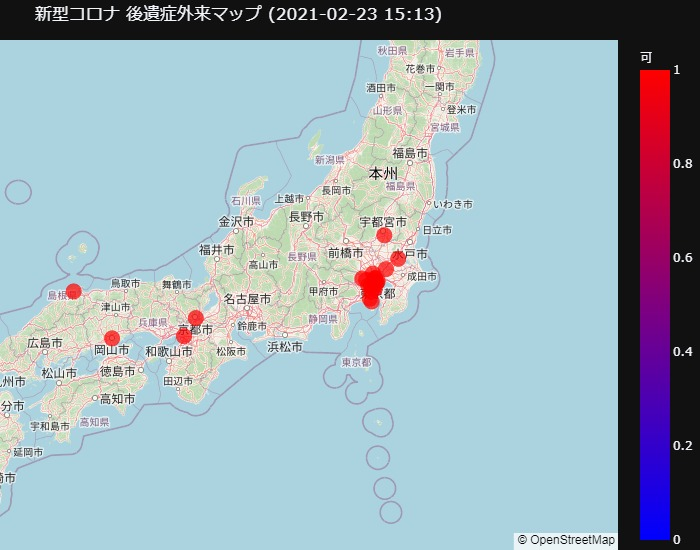
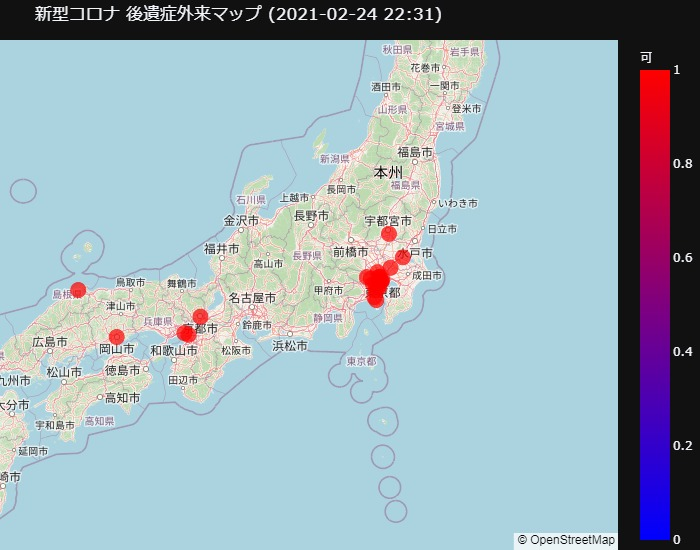
Updated with latest data.

Changed region(s): [[0.0, 0.0618, 0.72, 0.9582], [0.51, 0.0, 0.63, 0.0309], [0.0, 0.3091, 0.06, 0.3709]]

diff --git a/docs/_includes/longcovid-map.html b/docs/_includes/longcovid-map.html
@@ -1,1 +1,1 @@
-<div>                            <div id="998d33b6-41f8-476d-84e4-7009b12d7697" class="plotly-graph-div" style="height:550px; width:100%;"></div>            <script type="text/javascript">                                    window.PLOTLYENV=window.PLOTLYENV || {};                                    if (document.getElementById("998d33b6-41f8-476d-84e4-7009b12d7697")) {                    Plotly.newPlot(                        "998d33b6-41f8-476d-84e4-7009b12d7697",                        [{"customdata": [["-", "-", "2\u9031\u9593\u4ee5\u4e0a\u7d4c\u904e"], ["?", "?", "?"], ["\u53ef", "-", "\u521d\u8a3a\u3067\u3082\u53ef"], ["?", "?", "?"], ["?", "?", "?"], ["-", "\u4e00\u65b9", "16\u6b73\u4ee5\u4e0a\u3001\u57fa\u672c\u306f\u6f22\u65b9"], ["-", "-", "2\u301c3\u30ab\u6708\u7d4c\u904e\u3001\u8af8\u75c7\u72b6\u6709"], ["\u53ef", "\u5fc5\u8981", "\u521d\u8a3a\u3067\u3082\u53ef"], ["?", "?", "\u57fa\u672c\u306f\u6f22\u65b9\u3001\u8981\u554f\u5408\u305b"], ["?", "?", "\u57fa\u672c\u306f\u6f22\u65b9\u3001\u8981\u554f\u5408\u305b"], ["?", "?", "\u57fa\u672c\u306f\u6f22\u65b9\u3001\u8981\u554f\u5408\u305b"], ["\u53ef", "-", "\u57fa\u672c\u306f\u6f22\u65b9\u3001\u81ea\u7531\u8a3a\u7642"], ["\u53ef", "-", "-"], ["-", "-", "\u55c5\u899a\u5473\u899a\u969c\u5bb3\u5916\u6765"], ["-", "\u5fc5\u8981", "2\u30ab\u6708\u4ee5\u4e0a\u7d4c\u904e"], ["-", "-", "\u6765\u9662\u304c\u57fa\u672c"], ["\u53ef", "-", "-"], ["-", "-", "\u9694\u96e2\u671f\u9593\u7d42\u4e86"], ["?", "?", "\u7642\u990a\u7d42\u4e86\u5f8c"], ["?", "?", "\u767a\u75c73\u9031\u9593\u5f8c"], ["-", "-", "\u9000\u9662/\u7642\u990a\u5f8c2\u304b\u6708"], ["-", "\u5fc5\u8981", "3\u30ab\u6708\u4ee5\u4e0a\u7d4c\u904e"], ["?", "?", "-"], ["-", "\u5fc5\u8981", "1\u30ab\u6708\u4ee5\u4e0a\u7d4c\u904e"], ["\u53ef", "-", "\u5bfe\u9762\u8a3a\u7642\u306e\u53ef\u80fd\u6027\u6709"], ["-", "-", "-"], ["-", "-", "1\u30ab\u6708\u4ee5\u4e0a\u7d4c\u904e"]], "hovertemplate": "<b>%{hovertext}</b><br><br>\u53ef=%{marker.color}<br>\u7def\u5ea6=%{lat}<br>\u7d4c\u5ea6=%{lon}<br>\u30aa\u30f3\u30e9\u30a4\u30f3=%{customdata[0]}<br>\u7d39\u4ecb\u72b6=%{customdata[1]}<br>\u6761\u4ef6=%{customdata[2]}<extra></extra>", "hovertext": ["\u30a4\u30f3\u30bf\u30fc\u30d1\u30fc\u30af\u5009\u6301\u547c\u5438\u5668\u5185\u79d1", "\u3064\u3061\u3046\u3089\u6771\u53e3\u30af\u30ea\u30cb\u30c3\u30af", "\u30d2\u30e9\u30cf\u30bf\u30af\u30ea\u30cb\u30c3\u30af", "\u9663\u5185\u8033\u9f3b\u54bd\u5589\u79d1\u30af\u30ea\u30cb\u30c3\u30af", "\u65b0\u4e2d\u91ce\u8033\u9f3b\u54bd\u5589\u79d1\u30af\u30ea\u30cb\u30c3\u30af", "\u5bfa\u7530\u30af\u30ea\u30cb\u30c3\u30af", "\u3082\u3061\u3065\u304d\u8033\u9f3b\u54bd\u5589\u79d1", "\u5317\u91cc\u5927\u5b66\u6771\u6d0b\u533b\u5b66\u7dcf\u5408\u7814\u7a76\u6240", "\u5c0f\u91d1\u4e95\u3064\u308b\u304b\u3081\u30af\u30ea\u30cb\u30c3\u30af", "\u307f\u306e\u3084\u307e\u30af\u30ea\u30cb\u30c3\u30af", "\u307f\u306e\u3084\u307e\u30af\u30ea\u30cb\u30c3\u30af\u7acb\u5ddd", "\u6771\u6587\u4e2d\u91ab\u30af\u30ea\u30cb\u30c3\u30af\u30fb\u65b0\u6a4b", "\u516c\u5e73\u75c5\u9662", "\u30af\u30ea\u30cb\u30c3\u30af\u67cf\u306e\u8449", "\u8056\u30de\u30ea\u30a2\u30f3\u30ca\u533b\u79d1\u5927\u5b66\u75c5\u9662", "\u6a2a\u6d5c\u304b\u3093\u3060\u3044\u3058\u30d5\u30a1\u30df\u30ea\u30fc\u30af\u30ea\u30cb\u30c3\u30af", "\u68b6\u304c\u8c37\u99c5\u524d\u30af\u30ea\u30cb\u30c3\u30af", "\u65b0\u5ddd\u5d0e\u3080\u3089\u305b\u5185\u79d1\u5faa\u74b0\u5668\u5185\u79d1", "\u6a2a\u6d5c\u307f\u306a\u3068\u547c\u5438\u5668\u5185\u79d1", "\u6e58\u5357\u75c5\u9662", "\u7b2c\u4e8c\u5ddd\u5d0e\u5e78\u30af\u30ea\u30cb\u30c3\u30af", "\u30ca\u30ab\u30c8\u30df\u30d5\u30a1\u30c6\u30a3\u30fc\u30b0\u30b1\u30a2\u30af\u30ea\u30cb\u30c3\u30af", "\u5fa1\u6240\u5357\u306f\u3089\u3057\u307e\u30af\u30ea\u30cb\u30c3\u30af", "\u5ca1\u5c71\u5927\u5b66\u75c5\u9662", "\u798f\u7530\u5185\u79d1\u30af\u30ea\u30cb\u30c3\u30af", "\u5929\u795e\u3051\u3084\u304d\u30af\u30ea\u30cb\u30c3\u30af", "\u307f\u3089\u3044\u30af\u30ea\u30cb\u30c3\u30af"], "lat": [36.49421483, 36.07817712, 35.66099144, 35.67554272, 35.69746127, 35.72952117, 35.73184532, 35.64615518, 35.70092207, 35.65562198, 35.72698343, 35.66930295, 35.81312769, 35.89270812, 35.60075469, 35.48523182, 35.5937929, 35.55188904, 35.36818996, 35.31605077, 35.53647462, 34.690363399999995, 35.01644912, 34.65090647, 35.49501807, 33.58607487, 33.59038441], "legendgroup": "", "lon": [139.9027937, 140.207013, 139.70208080000003, 139.6681197, 139.6692997, 139.6931743, 139.7026409, 139.72627219999998, 139.5058372, 139.73607180000002, 139.4179435, 139.7537904, 139.6527044, 139.9377533, 139.5488861, 139.61037869999998, 139.6063036, 139.6629341, 139.58114630000003, 139.6242106, 139.689216, 135.49824080000002, 135.76120600000002, 133.9206308, 133.0761817, 130.3950466, 130.423525], "marker": {"color": [1, 1, 1, 1, 1, 1, 1, 1, 1, 1, 1, 1, 1, 1, 1, 1, 1, 1, 1, 1, 1, 1, 1, 1, 1, 0, 1], "coloraxis": "coloraxis", "size": [1, 1, 1, 1, 1, 1, 1, 1, 1, 1, 1, 1, 1, 1, 1, 1, 1, 1, 1, 1, 1, 1, 1, 1, 1, 0, 1], "sizemode": "area", "sizeref": 0.006944444444444444}, "mode": "markers", "name": "", "showlegend": false, "subplot": "mapbox", "type": "scattermapbox"}],                        {"coloraxis": {"colorbar": {"title": {"text": "\u53ef"}}, "colorscale": [[0.0, "rgb(0,0,255)"], [1.0, "rgb(255,0,0)"]]}, "height": 550, "legend": {"itemsizing": "constant", "tracegroupgap": 0}, "mapbox": {"center": {"lat": 35.43163538629629, "lon": 138.2471630074074}, "domain": {"x": [0.0, 1.0], "y": [0.0, 1.0]}, "style": "open-street-map", "zoom": 5}, "margin": {"b": 0, "l": 0, "r": 0, "t": 40}, "template": {"data": {"bar": [{"error_x": {"color": "#f2f5fa"}, "error_y": {"color": "#f2f5fa"}, "marker": {"line": {"color": "rgb(17,17,17)", "width": 0.5}}, "type": "bar"}], "barpolar": [{"marker": {"line": {"color": "rgb(17,17,17)", "width": 0.5}}, "type": "barpolar"}], "carpet": [{"aaxis": {"endlinecolor": "#A2B1C6", "gridcolor": "#506784", "linecolor": "#506784", "minorgridcolor": "#506784", "startlinecolor": "#A2B1C6"}, "baxis": {"endlinecolor": "#A2B1C6", "gridcolor": "#506784", "linecolor": "#506784", "minorgridcolor": "#506784", "startlinecolor": "#A2B1C6"}, "type": "carpet"}], "choropleth": [{"colorbar": {"outlinewidth": 0, "ticks": ""}, "type": "choropleth"}], "contour": [{"colorbar": {"outlinewidth": 0, "ticks": ""}, "colorscale": [[0.0, "#0d0887"], [0.1111111111111111, "#46039f"], [0.2222222222222222, "#7201a8"], [0.3333333333333333, "#9c179e"], [0.4444444444444444, "#bd3786"], [0.5555555555555556, "#d8576b"], [0.6666666666666666, "#ed7953"], [0.7777777777777778, "#fb9f3a"], [0.8888888888888888, "#fdca26"], [1.0, "#f0f921"]], "type": "contour"}], "contourcarpet": [{"colorbar": {"outlinewidth": 0, "ticks": ""}, "type": "contourcarpet"}], "heatmap": [{"colorbar": {"outlinewidth": 0, "ticks": ""}, "colorscale": [[0.0, "#0d0887"], [0.1111111111111111, "#46039f"], [0.2222222222222222, "#7201a8"], [0.3333333333333333, "#9c179e"], [0.4444444444444444, "#bd3786"], [0.5555555555555556, "#d8576b"], [0.6666666666666666, "#ed7953"], [0.7777777777777778, "#fb9f3a"], [0.8888888888888888, "#fdca26"], [1.0, "#f0f921"]], "type": "heatmap"}], "heatmapgl": [{"colorbar": {"outlinewidth": 0, "ticks": ""}, "colorscale": [[0.0, "#0d0887"], [0.1111111111111111, "#46039f"], [0.2222222222222222, "#7201a8"], [0.3333333333333333, "#9c179e"], [0.4444444444444444, "#bd3786"], [0.5555555555555556, "#d8576b"], [0.6666666666666666, "#ed7953"], [0.7777777777777778, "#fb9f3a"], [0.8888888888888888, "#fdca26"], [1.0, "#f0f921"]], "type": "heatmapgl"}], "histogram": [{"marker": {"colorbar": {"outlinewidth": 0, "ticks": ""}}, "type": "histogram"}], "histogram2d": [{"colorbar": {"outlinewidth": 0, "ticks": ""}, "colorscale": [[0.0, "#0d0887"], [0.1111111111111111, "#46039f"], [0.2222222222222222, "#7201a8"], [0.3333333333333333, "#9c179e"], [0.4444444444444444, "#bd3786"], [0.5555555555555556, "#d8576b"], [0.6666666666666666, "#ed7953"], [0.7777777777777778, "#fb9f3a"], [0.8888888888888888, "#fdca26"], [1.0, "#f0f921"]], "type": "histogram2d"}], "histogram2dcontour": [{"colorbar": {"outlinewidth": 0, "ticks": ""}, "colorscale": [[0.0, "#0d0887"], [0.1111111111111111, "#46039f"], [0.2222222222222222, "#7201a8"], [0.3333333333333333, "#9c179e"], [0.4444444444444444, "#bd3786"], [0.5555555555555556, "#d8576b"], [0.6666666666666666, "#ed7953"], [0.7777777777777778, "#fb9f3a"], [0.8888888888888888, "#fdca26"], [1.0, "#f0f921"]], "type": "histogram2dcontour"}], "mesh3d": [{"colorbar": {"outlinewidth": 0, "ticks": ""}, "type": "mesh3d"}], "parcoords": [{"line": {"colorbar": {"outlinewidth": 0, "ticks": ""}}, "type": "parcoords"}], "pie": [{"automargin": true, "type": "pie"}], "scatter": [{"marker": {"line": {"color": "#283442"}}, "type": "scatter"}], "scatter3d": [{"line": {"colorbar": {"outlinewidth": 0, "ticks": ""}}, "marker": {"colorbar": {"outlinewidth": 0, "ticks": ""}}, "type": "scatter3d"}], "scattercarpet": [{"marker": {"colorbar": {"outlinewidth": 0, "ticks": ""}}, "type": "scattercarpet"}], "scattergeo": [{"marker": {"colorbar": {"outlinewidth": 0, "ticks": ""}}, "type": "scattergeo"}], "scattergl": [{"marker": {"line": {"color": "#283442"}}, "type": "scattergl"}], "scattermapbox": [{"marker": {"colorbar": {"outlinewidth": 0, "ticks": ""}}, "type": "scattermapbox"}], "scatterpolar": [{"marker": {"colorbar": {"outlinewidth": 0, "ticks": ""}}, "type": "scatterpolar"}], "scatterpolargl": [{"marker": {"colorbar": {"outlinewidth": 0, "ticks": ""}}, "type": "scatterpolargl"}], "scatterternary": [{"marker": {"colorbar": {"outlinewidth": 0, "ticks": ""}}, "type": "scatterternary"}], "surface": [{"colorbar": {"outlinewidth": 0, "ticks": ""}, "colorscale": [[0.0, "#0d0887"], [0.1111111111111111, "#46039f"], [0.2222222222222222, "#7201a8"], [0.3333333333333333, "#9c179e"], [0.4444444444444444, "#bd3786"], [0.5555555555555556, "#d8576b"], [0.6666666666666666, "#ed7953"], [0.7777777777777778, "#fb9f3a"], [0.8888888888888888, "#fdca26"], [1.0, "#f0f921"]], "type": "surface"}], "table": [{"cells": {"fill": {"color": "#506784"}, "line": {"color": "rgb(17,17,17)"}}, "header": {"fill": {"color": "#2a3f5f"}, "line": {"color": "rgb(17,17,17)"}}, "type": "table"}]}, "layout": {"annotationdefaults": {"arrowcolor": "#f2f5fa", "arrowhead": 0, "arrowwidth": 1}, "autotypenumbers": "strict", "coloraxis": {"colorbar": {"outlinewidth": 0, "ticks": ""}}, "colorscale": {"diverging": [[0, "#8e0152"], [0.1, "#c51b7d"], [0.2, "#de77ae"], [0.3, "#f1b6da"], [0.4, "#fde0ef"], [0.5, "#f7f7f7"], [0.6, "#e6f5d0"], [0.7, "#b8e186"], [0.8, "#7fbc41"], [0.9, "#4d9221"], [1, "#276419"]], "sequential": [[0.0, "#0d0887"], [0.1111111111111111, "#46039f"], [0.2222222222222222, "#7201a8"], [0.3333333333333333, "#9c179e"], [0.4444444444444444, "#bd3786"], [0.5555555555555556, "#d8576b"], [0.6666666666666666, "#ed7953"], [0.7777777777777778, "#fb9f3a"], [0.8888888888888888, "#fdca26"], [1.0, "#f0f921"]], "sequentialminus": [[0.0, "#0d0887"], [0.1111111111111111, "#46039f"], [0.2222222222222222, "#7201a8"], [0.3333333333333333, "#9c179e"], [0.4444444444444444, "#bd3786"], [0.5555555555555556, "#d8576b"], [0.6666666666666666, "#ed7953"], [0.7777777777777778, "#fb9f3a"], [0.8888888888888888, "#fdca26"], [1.0, "#f0f921"]]}, "colorway": ["#636efa", "#EF553B", "#00cc96", "#ab63fa", "#FFA15A", "#19d3f3", "#FF6692", "#B6E880", "#FF97FF", "#FECB52"], "font": {"color": "#f2f5fa"}, "geo": {"bgcolor": "rgb(17,17,17)", "lakecolor": "rgb(17,17,17)", "landcolor": "rgb(17,17,17)", "showlakes": true, "showland": true, "subunitcolor": "#506784"}, "hoverlabel": {"align": "left"}, "hovermode": "closest", "mapbox": {"style": "dark"}, "paper_bgcolor": "rgb(17,17,17)", "plot_bgcolor": "rgb(17,17,17)", "polar": {"angularaxis": {"gridcolor": "#506784", "linecolor": "#506784", "ticks": ""}, "bgcolor": "rgb(17,17,17)", "radialaxis": {"gridcolor": "#506784", "linecolor": "#506784", "ticks": ""}}, "scene": {"xaxis": {"backgroundcolor": "rgb(17,17,17)", "gridcolor": "#506784", "gridwidth": 2, "linecolor": "#506784", "showbackground": true, "ticks": "", "zerolinecolor": "#C8D4E3"}, "yaxis": {"backgroundcolor": "rgb(17,17,17)", "gridcolor": "#506784", "gridwidth": 2, "linecolor": "#506784", "showbackground": true, "ticks": "", "zerolinecolor": "#C8D4E3"}, "zaxis": {"backgroundcolor": "rgb(17,17,17)", "gridcolor": "#506784", "gridwidth": 2, "linecolor": "#506784", "showbackground": true, "ticks": "", "zerolinecolor": "#C8D4E3"}}, "shapedefaults": {"line": {"color": "#f2f5fa"}}, "sliderdefaults": {"bgcolor": "#C8D4E3", "bordercolor": "rgb(17,17,17)", "borderwidth": 1, "tickwidth": 0}, "ternary": {"aaxis": {"gridcolor": "#506784", "linecolor": "#506784", "ticks": ""}, "baxis": {"gridcolor": "#506784", "linecolor": "#506784", "ticks": ""}, "bgcolor": "rgb(17,17,17)", "caxis": {"gridcolor": "#506784", "linecolor": "#506784", "ticks": ""}}, "title": {"x": 0.05}, "updatemenudefaults": {"bgcolor": "#506784", "borderwidth": 0}, "xaxis": {"automargin": true, "gridcolor": "#283442", "linecolor": "#506784", "ticks": "", "title": {"standoff": 15}, "zerolinecolor": "#283442", "zerolinewidth": 2}, "yaxis": {"automargin": true, "gridcolor": "#283442", "linecolor": "#506784", "ticks": "", "title": {"standoff": 15}, "zerolinecolor": "#283442", "zerolinewidth": 2}}}, "title": {"text": "\u65b0\u578b\u30b3\u30ed\u30ca \u5f8c\u907a\u75c7\u5916\u6765\u30de\u30c3\u30d7 (2021-02-23 15:13)"}},                        {"responsive": true}                    )                };                            </script>        </div>
+<div>                            <div id="27be0d39-5cd0-4423-abad-bdfcbefb373c" class="plotly-graph-div" style="height:550px; width:100%;"></div>            <script type="text/javascript">                                    window.PLOTLYENV=window.PLOTLYENV || {};                                    if (document.getElementById("27be0d39-5cd0-4423-abad-bdfcbefb373c")) {                    Plotly.newPlot(                        "27be0d39-5cd0-4423-abad-bdfcbefb373c",                        [{"customdata": [["-", "-", "2\u9031\u9593\u4ee5\u4e0a\u7d4c\u904e"], ["?", "?", "?"], ["\u53ef", "-", "\u521d\u8a3a\u3067\u3082\u53ef"], ["?", "?", "?"], ["?", "?", "?"], ["-", "\u4e00\u65b9", "16\u6b73\u4ee5\u4e0a\u3001\u57fa\u672c\u306f\u6f22\u65b9"], ["-", "-", "2\u301c3\u30ab\u6708\u7d4c\u904e\u3001\u8af8\u75c7\u72b6\u6709"], ["\u53ef", "\u5fc5\u8981", "\u521d\u8a3a\u3067\u3082\u53ef"], ["?", "?", "\u57fa\u672c\u306f\u6f22\u65b9\u3001\u8981\u554f\u5408\u305b"], ["?", "?", "\u57fa\u672c\u306f\u6f22\u65b9\u3001\u8981\u554f\u5408\u305b"], ["?", "?", "\u57fa\u672c\u306f\u6f22\u65b9\u3001\u8981\u554f\u5408\u305b"], ["\u53ef", "-", "\u57fa\u672c\u306f\u6f22\u65b9\u3001\u81ea\u7531\u8a3a\u7642"], ["\u53ef", "-", "-"], ["-", "-", "\u55c5\u899a\u5473\u899a\u969c\u5bb3\u5916\u6765"], ["-", "\u5fc5\u8981", "2\u30ab\u6708\u4ee5\u4e0a\u7d4c\u904e"], ["-", "-", "\u6765\u9662\u304c\u57fa\u672c"], ["\u53ef", "-", "-"], ["-", "-", "\u9694\u96e2\u671f\u9593\u7d42\u4e86"], ["?", "?", "\u7642\u990a\u7d42\u4e86\u5f8c"], ["?", "?", "\u767a\u75c73\u9031\u9593\u5f8c"], ["-", "-", "\u9000\u9662/\u7642\u990a\u5f8c2\u304b\u6708"], ["-", "\u5fc5\u8981", "3\u30ab\u6708\u4ee5\u4e0a\u7d4c\u904e"], ["?", "?", "-"], ["-", "?", "-"], ["-", "\u5fc5\u8981", "1\u30ab\u6708\u4ee5\u4e0a\u7d4c\u904e"], ["\u53ef", "-", "\u5bfe\u9762\u8a3a\u7642\u306e\u53ef\u80fd\u6027\u6709"], ["-", "-", "-"], ["-", "-", "1\u30ab\u6708\u4ee5\u4e0a\u7d4c\u904e"]], "hovertemplate": "<b>%{hovertext}</b><br><br>\u53ef=%{marker.color}<br>\u7def\u5ea6=%{lat}<br>\u7d4c\u5ea6=%{lon}<br>\u30aa\u30f3\u30e9\u30a4\u30f3=%{customdata[0]}<br>\u7d39\u4ecb\u72b6=%{customdata[1]}<br>\u6761\u4ef6=%{customdata[2]}<extra></extra>", "hovertext": ["\u30a4\u30f3\u30bf\u30fc\u30d1\u30fc\u30af\u5009\u6301\u547c\u5438\u5668\u5185\u79d1", "\u3064\u3061\u3046\u3089\u6771\u53e3\u30af\u30ea\u30cb\u30c3\u30af", "\u30d2\u30e9\u30cf\u30bf\u30af\u30ea\u30cb\u30c3\u30af", "\u9663\u5185\u8033\u9f3b\u54bd\u5589\u79d1\u30af\u30ea\u30cb\u30c3\u30af", "\u65b0\u4e2d\u91ce\u8033\u9f3b\u54bd\u5589\u79d1\u30af\u30ea\u30cb\u30c3\u30af", "\u5bfa\u7530\u30af\u30ea\u30cb\u30c3\u30af", "\u3082\u3061\u3065\u304d\u8033\u9f3b\u54bd\u5589\u79d1", "\u5317\u91cc\u5927\u5b66\u6771\u6d0b\u533b\u5b66\u7dcf\u5408\u7814\u7a76\u6240", "\u5c0f\u91d1\u4e95\u3064\u308b\u304b\u3081\u30af\u30ea\u30cb\u30c3\u30af", "\u307f\u306e\u3084\u307e\u30af\u30ea\u30cb\u30c3\u30af", "\u307f\u306e\u3084\u307e\u30af\u30ea\u30cb\u30c3\u30af\u7acb\u5ddd", "\u6771\u6587\u4e2d\u91ab\u30af\u30ea\u30cb\u30c3\u30af\u30fb\u65b0\u6a4b", "\u516c\u5e73\u75c5\u9662", "\u30af\u30ea\u30cb\u30c3\u30af\u67cf\u306e\u8449", "\u8056\u30de\u30ea\u30a2\u30f3\u30ca\u533b\u79d1\u5927\u5b66\u75c5\u9662", "\u6a2a\u6d5c\u304b\u3093\u3060\u3044\u3058\u30d5\u30a1\u30df\u30ea\u30fc\u30af\u30ea\u30cb\u30c3\u30af", "\u68b6\u304c\u8c37\u99c5\u524d\u30af\u30ea\u30cb\u30c3\u30af", "\u65b0\u5ddd\u5d0e\u3080\u3089\u305b\u5185\u79d1\u5faa\u74b0\u5668\u5185\u79d1", "\u6a2a\u6d5c\u307f\u306a\u3068\u547c\u5438\u5668\u5185\u79d1", "\u6e58\u5357\u75c5\u9662", "\u7b2c\u4e8c\u5ddd\u5d0e\u5e78\u30af\u30ea\u30cb\u30c3\u30af", "\u30ca\u30ab\u30c8\u30df\u30d5\u30a1\u30c6\u30a3\u30fc\u30b0\u30b1\u30a2\u30af\u30ea\u30cb\u30c3\u30af", "\u5fa1\u6240\u5357\u306f\u3089\u3057\u307e\u30af\u30ea\u30cb\u30c3\u30af", "\u9577\u5c3e\u30af\u30ea\u30cb\u30c3\u30af", "\u5ca1\u5c71\u5927\u5b66\u75c5\u9662", "\u798f\u7530\u5185\u79d1\u30af\u30ea\u30cb\u30c3\u30af", "\u5929\u795e\u3051\u3084\u304d\u30af\u30ea\u30cb\u30c3\u30af", "\u307f\u3089\u3044\u30af\u30ea\u30cb\u30c3\u30af"], "lat": [36.49421483, 36.07817712, 35.66099144, 35.67554272, 35.69746127, 35.72952117, 35.73184532, 35.64615518, 35.70092207, 35.65562198, 35.72698343, 35.66930295, 35.81312769, 35.89270812, 35.60075469, 35.48523182, 35.5937929, 35.55188904, 35.36818996, 35.31605077, 35.53647462, 34.690363399999995, 35.01644912, 34.72288787, 34.65090647, 35.49501807, 33.58607487, 33.59038441], "legendgroup": "", "lon": [139.9027937, 140.207013, 139.70208080000003, 139.6681197, 139.6692997, 139.6931743, 139.7026409, 139.72627219999998, 139.5058372, 139.73607180000002, 139.4179435, 139.7537904, 139.6527044, 139.9377533, 139.5488861, 139.61037869999998, 139.6063036, 139.6629341, 139.58114630000003, 139.6242106, 139.689216, 135.49824080000002, 135.76120600000002, 135.4083263, 133.9206308, 133.0761817, 130.3950466, 130.423525], "marker": {"color": [1, 1, 1, 1, 1, 1, 1, 1, 1, 1, 1, 1, 1, 1, 1, 1, 1, 1, 1, 1, 1, 1, 1, 1, 1, 1, 0, 1], "coloraxis": "coloraxis", "size": [1, 1, 1, 1, 1, 1, 1, 1, 1, 1, 1, 1, 1, 1, 1, 1, 1, 1, 1, 1, 1, 1, 1, 1, 1, 1, 0, 1], "sizemode": "area", "sizeref": 0.006944444444444444}, "mode": "markers", "name": "", "showlegend": false, "subplot": "mapbox", "type": "scattermapbox"}],                        {"coloraxis": {"colorbar": {"title": {"text": "\u53ef"}}, "colorscale": [[0.0, "rgb(0,0,255)"], [1.0, "rgb(255,0,0)"]]}, "height": 550, "legend": {"itemsizing": "constant", "tracegroupgap": 0}, "mapbox": {"center": {"lat": 35.406322975, "lon": 138.14577598214288}, "domain": {"x": [0.0, 1.0], "y": [0.0, 1.0]}, "style": "open-street-map", "zoom": 5}, "margin": {"b": 0, "l": 0, "r": 0, "t": 40}, "template": {"data": {"bar": [{"error_x": {"color": "#f2f5fa"}, "error_y": {"color": "#f2f5fa"}, "marker": {"line": {"color": "rgb(17,17,17)", "width": 0.5}}, "type": "bar"}], "barpolar": [{"marker": {"line": {"color": "rgb(17,17,17)", "width": 0.5}}, "type": "barpolar"}], "carpet": [{"aaxis": {"endlinecolor": "#A2B1C6", "gridcolor": "#506784", "linecolor": "#506784", "minorgridcolor": "#506784", "startlinecolor": "#A2B1C6"}, "baxis": {"endlinecolor": "#A2B1C6", "gridcolor": "#506784", "linecolor": "#506784", "minorgridcolor": "#506784", "startlinecolor": "#A2B1C6"}, "type": "carpet"}], "choropleth": [{"colorbar": {"outlinewidth": 0, "ticks": ""}, "type": "choropleth"}], "contour": [{"colorbar": {"outlinewidth": 0, "ticks": ""}, "colorscale": [[0.0, "#0d0887"], [0.1111111111111111, "#46039f"], [0.2222222222222222, "#7201a8"], [0.3333333333333333, "#9c179e"], [0.4444444444444444, "#bd3786"], [0.5555555555555556, "#d8576b"], [0.6666666666666666, "#ed7953"], [0.7777777777777778, "#fb9f3a"], [0.8888888888888888, "#fdca26"], [1.0, "#f0f921"]], "type": "contour"}], "contourcarpet": [{"colorbar": {"outlinewidth": 0, "ticks": ""}, "type": "contourcarpet"}], "heatmap": [{"colorbar": {"outlinewidth": 0, "ticks": ""}, "colorscale": [[0.0, "#0d0887"], [0.1111111111111111, "#46039f"], [0.2222222222222222, "#7201a8"], [0.3333333333333333, "#9c179e"], [0.4444444444444444, "#bd3786"], [0.5555555555555556, "#d8576b"], [0.6666666666666666, "#ed7953"], [0.7777777777777778, "#fb9f3a"], [0.8888888888888888, "#fdca26"], [1.0, "#f0f921"]], "type": "heatmap"}], "heatmapgl": [{"colorbar": {"outlinewidth": 0, "ticks": ""}, "colorscale": [[0.0, "#0d0887"], [0.1111111111111111, "#46039f"], [0.2222222222222222, "#7201a8"], [0.3333333333333333, "#9c179e"], [0.4444444444444444, "#bd3786"], [0.5555555555555556, "#d8576b"], [0.6666666666666666, "#ed7953"], [0.7777777777777778, "#fb9f3a"], [0.8888888888888888, "#fdca26"], [1.0, "#f0f921"]], "type": "heatmapgl"}], "histogram": [{"marker": {"colorbar": {"outlinewidth": 0, "ticks": ""}}, "type": "histogram"}], "histogram2d": [{"colorbar": {"outlinewidth": 0, "ticks": ""}, "colorscale": [[0.0, "#0d0887"], [0.1111111111111111, "#46039f"], [0.2222222222222222, "#7201a8"], [0.3333333333333333, "#9c179e"], [0.4444444444444444, "#bd3786"], [0.5555555555555556, "#d8576b"], [0.6666666666666666, "#ed7953"], [0.7777777777777778, "#fb9f3a"], [0.8888888888888888, "#fdca26"], [1.0, "#f0f921"]], "type": "histogram2d"}], "histogram2dcontour": [{"colorbar": {"outlinewidth": 0, "ticks": ""}, "colorscale": [[0.0, "#0d0887"], [0.1111111111111111, "#46039f"], [0.2222222222222222, "#7201a8"], [0.3333333333333333, "#9c179e"], [0.4444444444444444, "#bd3786"], [0.5555555555555556, "#d8576b"], [0.6666666666666666, "#ed7953"], [0.7777777777777778, "#fb9f3a"], [0.8888888888888888, "#fdca26"], [1.0, "#f0f921"]], "type": "histogram2dcontour"}], "mesh3d": [{"colorbar": {"outlinewidth": 0, "ticks": ""}, "type": "mesh3d"}], "parcoords": [{"line": {"colorbar": {"outlinewidth": 0, "ticks": ""}}, "type": "parcoords"}], "pie": [{"automargin": true, "type": "pie"}], "scatter": [{"marker": {"line": {"color": "#283442"}}, "type": "scatter"}], "scatter3d": [{"line": {"colorbar": {"outlinewidth": 0, "ticks": ""}}, "marker": {"colorbar": {"outlinewidth": 0, "ticks": ""}}, "type": "scatter3d"}], "scattercarpet": [{"marker": {"colorbar": {"outlinewidth": 0, "ticks": ""}}, "type": "scattercarpet"}], "scattergeo": [{"marker": {"colorbar": {"outlinewidth": 0, "ticks": ""}}, "type": "scattergeo"}], "scattergl": [{"marker": {"line": {"color": "#283442"}}, "type": "scattergl"}], "scattermapbox": [{"marker": {"colorbar": {"outlinewidth": 0, "ticks": ""}}, "type": "scattermapbox"}], "scatterpolar": [{"marker": {"colorbar": {"outlinewidth": 0, "ticks": ""}}, "type": "scatterpolar"}], "scatterpolargl": [{"marker": {"colorbar": {"outlinewidth": 0, "ticks": ""}}, "type": "scatterpolargl"}], "scatterternary": [{"marker": {"colorbar": {"outlinewidth": 0, "ticks": ""}}, "type": "scatterternary"}], "surface": [{"colorbar": {"outlinewidth": 0, "ticks": ""}, "colorscale": [[0.0, "#0d0887"], [0.1111111111111111, "#46039f"], [0.2222222222222222, "#7201a8"], [0.3333333333333333, "#9c179e"], [0.4444444444444444, "#bd3786"], [0.5555555555555556, "#d8576b"], [0.6666666666666666, "#ed7953"], [0.7777777777777778, "#fb9f3a"], [0.8888888888888888, "#fdca26"], [1.0, "#f0f921"]], "type": "surface"}], "table": [{"cells": {"fill": {"color": "#506784"}, "line": {"color": "rgb(17,17,17)"}}, "header": {"fill": {"color": "#2a3f5f"}, "line": {"color": "rgb(17,17,17)"}}, "type": "table"}]}, "layout": {"annotationdefaults": {"arrowcolor": "#f2f5fa", "arrowhead": 0, "arrowwidth": 1}, "autotypenumbers": "strict", "coloraxis": {"colorbar": {"outlinewidth": 0, "ticks": ""}}, "colorscale": {"diverging": [[0, "#8e0152"], [0.1, "#c51b7d"], [0.2, "#de77ae"], [0.3, "#f1b6da"], [0.4, "#fde0ef"], [0.5, "#f7f7f7"], [0.6, "#e6f5d0"], [0.7, "#b8e186"], [0.8, "#7fbc41"], [0.9, "#4d9221"], [1, "#276419"]], "sequential": [[0.0, "#0d0887"], [0.1111111111111111, "#46039f"], [0.2222222222222222, "#7201a8"], [0.3333333333333333, "#9c179e"], [0.4444444444444444, "#bd3786"], [0.5555555555555556, "#d8576b"], [0.6666666666666666, "#ed7953"], [0.7777777777777778, "#fb9f3a"], [0.8888888888888888, "#fdca26"], [1.0, "#f0f921"]], "sequentialminus": [[0.0, "#0d0887"], [0.1111111111111111, "#46039f"], [0.2222222222222222, "#7201a8"], [0.3333333333333333, "#9c179e"], [0.4444444444444444, "#bd3786"], [0.5555555555555556, "#d8576b"], [0.6666666666666666, "#ed7953"], [0.7777777777777778, "#fb9f3a"], [0.8888888888888888, "#fdca26"], [1.0, "#f0f921"]]}, "colorway": ["#636efa", "#EF553B", "#00cc96", "#ab63fa", "#FFA15A", "#19d3f3", "#FF6692", "#B6E880", "#FF97FF", "#FECB52"], "font": {"color": "#f2f5fa"}, "geo": {"bgcolor": "rgb(17,17,17)", "lakecolor": "rgb(17,17,17)", "landcolor": "rgb(17,17,17)", "showlakes": true, "showland": true, "subunitcolor": "#506784"}, "hoverlabel": {"align": "left"}, "hovermode": "closest", "mapbox": {"style": "dark"}, "paper_bgcolor": "rgb(17,17,17)", "plot_bgcolor": "rgb(17,17,17)", "polar": {"angularaxis": {"gridcolor": "#506784", "linecolor": "#506784", "ticks": ""}, "bgcolor": "rgb(17,17,17)", "radialaxis": {"gridcolor": "#506784", "linecolor": "#506784", "ticks": ""}}, "scene": {"xaxis": {"backgroundcolor": "rgb(17,17,17)", "gridcolor": "#506784", "gridwidth": 2, "linecolor": "#506784", "showbackground": true, "ticks": "", "zerolinecolor": "#C8D4E3"}, "yaxis": {"backgroundcolor": "rgb(17,17,17)", "gridcolor": "#506784", "gridwidth": 2, "linecolor": "#506784", "showbackground": true, "ticks": "", "zerolinecolor": "#C8D4E3"}, "zaxis": {"backgroundcolor": "rgb(17,17,17)", "gridcolor": "#506784", "gridwidth": 2, "linecolor": "#506784", "showbackground": true, "ticks": "", "zerolinecolor": "#C8D4E3"}}, "shapedefaults": {"line": {"color": "#f2f5fa"}}, "sliderdefaults": {"bgcolor": "#C8D4E3", "bordercolor": "rgb(17,17,17)", "borderwidth": 1, "tickwidth": 0}, "ternary": {"aaxis": {"gridcolor": "#506784", "linecolor": "#506784", "ticks": ""}, "baxis": {"gridcolor": "#506784", "linecolor": "#506784", "ticks": ""}, "bgcolor": "rgb(17,17,17)", "caxis": {"gridcolor": "#506784", "linecolor": "#506784", "ticks": ""}}, "title": {"x": 0.05}, "updatemenudefaults": {"bgcolor": "#506784", "borderwidth": 0}, "xaxis": {"automargin": true, "gridcolor": "#283442", "linecolor": "#506784", "ticks": "", "title": {"standoff": 15}, "zerolinecolor": "#283442", "zerolinewidth": 2}, "yaxis": {"automargin": true, "gridcolor": "#283442", "linecolor": "#506784", "ticks": "", "title": {"standoff": 15}, "zerolinecolor": "#283442", "zerolinewidth": 2}}}, "title": {"text": "\u65b0\u578b\u30b3\u30ed\u30ca \u5f8c\u907a\u75c7\u5916\u6765\u30de\u30c3\u30d7 (2021-02-24 22:31)"}},                        {"responsive": true}                    )                };                            </script>        </div>

diff --git a/docs/_includes/longcovid-table.html b/docs/_includes/longcovid-table.html
@@ -45,8 +45,9 @@
 <tr bgcolor="#606060"><td class="MapsTblColNo">関東</td><td class="MapsTblColSt">神奈川県</td><td class="MapsTblColNm">第二川崎幸クリニック</td><td class="MapsTblColEn">1</td><td class="MapsTblColOL">-</td><td class="MapsTblColRS">-</td><td class="MapsTblColCd">退院/療養後2か月</td><td class="MapsTblColHP"><a href="https://saiwaicl-2.jp/topics/detail.php?id=610">HP</a></td></tr>
 <tr bgcolor="#000000"><td class="MapsTblColNo">近畿</td><td class="MapsTblColSt">大阪府</td><td class="MapsTblColNm">ナカトミファティーグケアクリニック</td><td class="MapsTblColEn">1</td><td class="MapsTblColOL">-</td><td class="MapsTblColRS">必要</td><td class="MapsTblColCd">3カ月以上経過</td><td class="MapsTblColHP"><a href="http://tukare.jp/news/2020/11/20/post-40.html">HP</a></td></tr>
 <tr bgcolor="#606060"><td class="MapsTblColNo">近畿</td><td class="MapsTblColSt">京都府</td><td class="MapsTblColNm">御所南はらしまクリニック</td><td class="MapsTblColEn">1</td><td class="MapsTblColOL">?</td><td class="MapsTblColRS">?</td><td class="MapsTblColCd">-</td><td class="MapsTblColHP"><a href="https://www.harashimaclinic.com/">HP</a></td></tr>
-<tr bgcolor="#000000"><td class="MapsTblColNo">中国</td><td class="MapsTblColSt">岡山県</td><td class="MapsTblColNm">岡山大学病院</td><td class="MapsTblColEn">1</td><td class="MapsTblColOL">-</td><td class="MapsTblColRS">必要</td><td class="MapsTblColCd">1カ月以上経過</td><td class="MapsTblColHP"><a href="http://medica.sanyonews.jp/article/18130">HP</a></td></tr>
-<tr bgcolor="#606060"><td class="MapsTblColNo">中国</td><td class="MapsTblColSt">島根県</td><td class="MapsTblColNm">福田内科クリニック</td><td class="MapsTblColEn">1</td><td class="MapsTblColOL">可</td><td class="MapsTblColRS">-</td><td class="MapsTblColCd">対面診療の可能性有</td><td class="MapsTblColHP"><a href="https://clinics.medley.life/clinics/5ae2fe7eccbc572e33a34edd">HP</a></td></tr>
-<tr bgcolor="#000000"><td class="MapsTblColNo">九州</td><td class="MapsTblColSt">福岡県</td><td class="MapsTblColNm">天神けやきクリニック</td><td class="MapsTblColEn">0</td><td class="MapsTblColOL">-</td><td class="MapsTblColRS">-</td><td class="MapsTblColCd">-</td><td class="MapsTblColHP"><a href="https://tenjinkeyaki.com/medical/medical39.html">HP</a></td></tr>
-<tr bgcolor="#606060"><td class="MapsTblColNo">九州</td><td class="MapsTblColSt">福岡県</td><td class="MapsTblColNm">みらいクリニック</td><td class="MapsTblColEn">1</td><td class="MapsTblColOL">-</td><td class="MapsTblColRS">-</td><td class="MapsTblColCd">1カ月以上経過</td><td class="MapsTblColHP"><a href="https://mirai-iryou.com/info/longcovid_20210207/">HP</a></td></tr>
+<tr bgcolor="#000000"><td class="MapsTblColNo">近畿</td><td class="MapsTblColSt">兵庫県</td><td class="MapsTblColNm">長尾クリニック</td><td class="MapsTblColEn">1</td><td class="MapsTblColOL">-</td><td class="MapsTblColRS">?</td><td class="MapsTblColCd">-</td><td class="MapsTblColHP"><a href="http://blog.drnagao.com/2021/02/post-7498.html">HP</a></td></tr>
+<tr bgcolor="#606060"><td class="MapsTblColNo">中国</td><td class="MapsTblColSt">岡山県</td><td class="MapsTblColNm">岡山大学病院</td><td class="MapsTblColEn">1</td><td class="MapsTblColOL">-</td><td class="MapsTblColRS">必要</td><td class="MapsTblColCd">1カ月以上経過</td><td class="MapsTblColHP"><a href="http://medica.sanyonews.jp/article/18130">HP</a></td></tr>
+<tr bgcolor="#000000"><td class="MapsTblColNo">中国</td><td class="MapsTblColSt">島根県</td><td class="MapsTblColNm">福田内科クリニック</td><td class="MapsTblColEn">1</td><td class="MapsTblColOL">可</td><td class="MapsTblColRS">-</td><td class="MapsTblColCd">対面診療の可能性有</td><td class="MapsTblColHP"><a href="https://clinics.medley.life/clinics/5ae2fe7eccbc572e33a34edd">HP</a></td></tr>
+<tr bgcolor="#606060"><td class="MapsTblColNo">九州</td><td class="MapsTblColSt">福岡県</td><td class="MapsTblColNm">天神けやきクリニック</td><td class="MapsTblColEn">0</td><td class="MapsTblColOL">-</td><td class="MapsTblColRS">-</td><td class="MapsTblColCd">-</td><td class="MapsTblColHP"><a href="https://tenjinkeyaki.com/medical/medical39.html">HP</a></td></tr>
+<tr bgcolor="#000000"><td class="MapsTblColNo">九州</td><td class="MapsTblColSt">福岡県</td><td class="MapsTblColNm">みらいクリニック</td><td class="MapsTblColEn">1</td><td class="MapsTblColOL">-</td><td class="MapsTblColRS">-</td><td class="MapsTblColCd">1カ月以上経過</td><td class="MapsTblColHP"><a href="https://mirai-iryou.com/info/longcovid_20210207/">HP</a></td></tr>
 </tbody></table>
